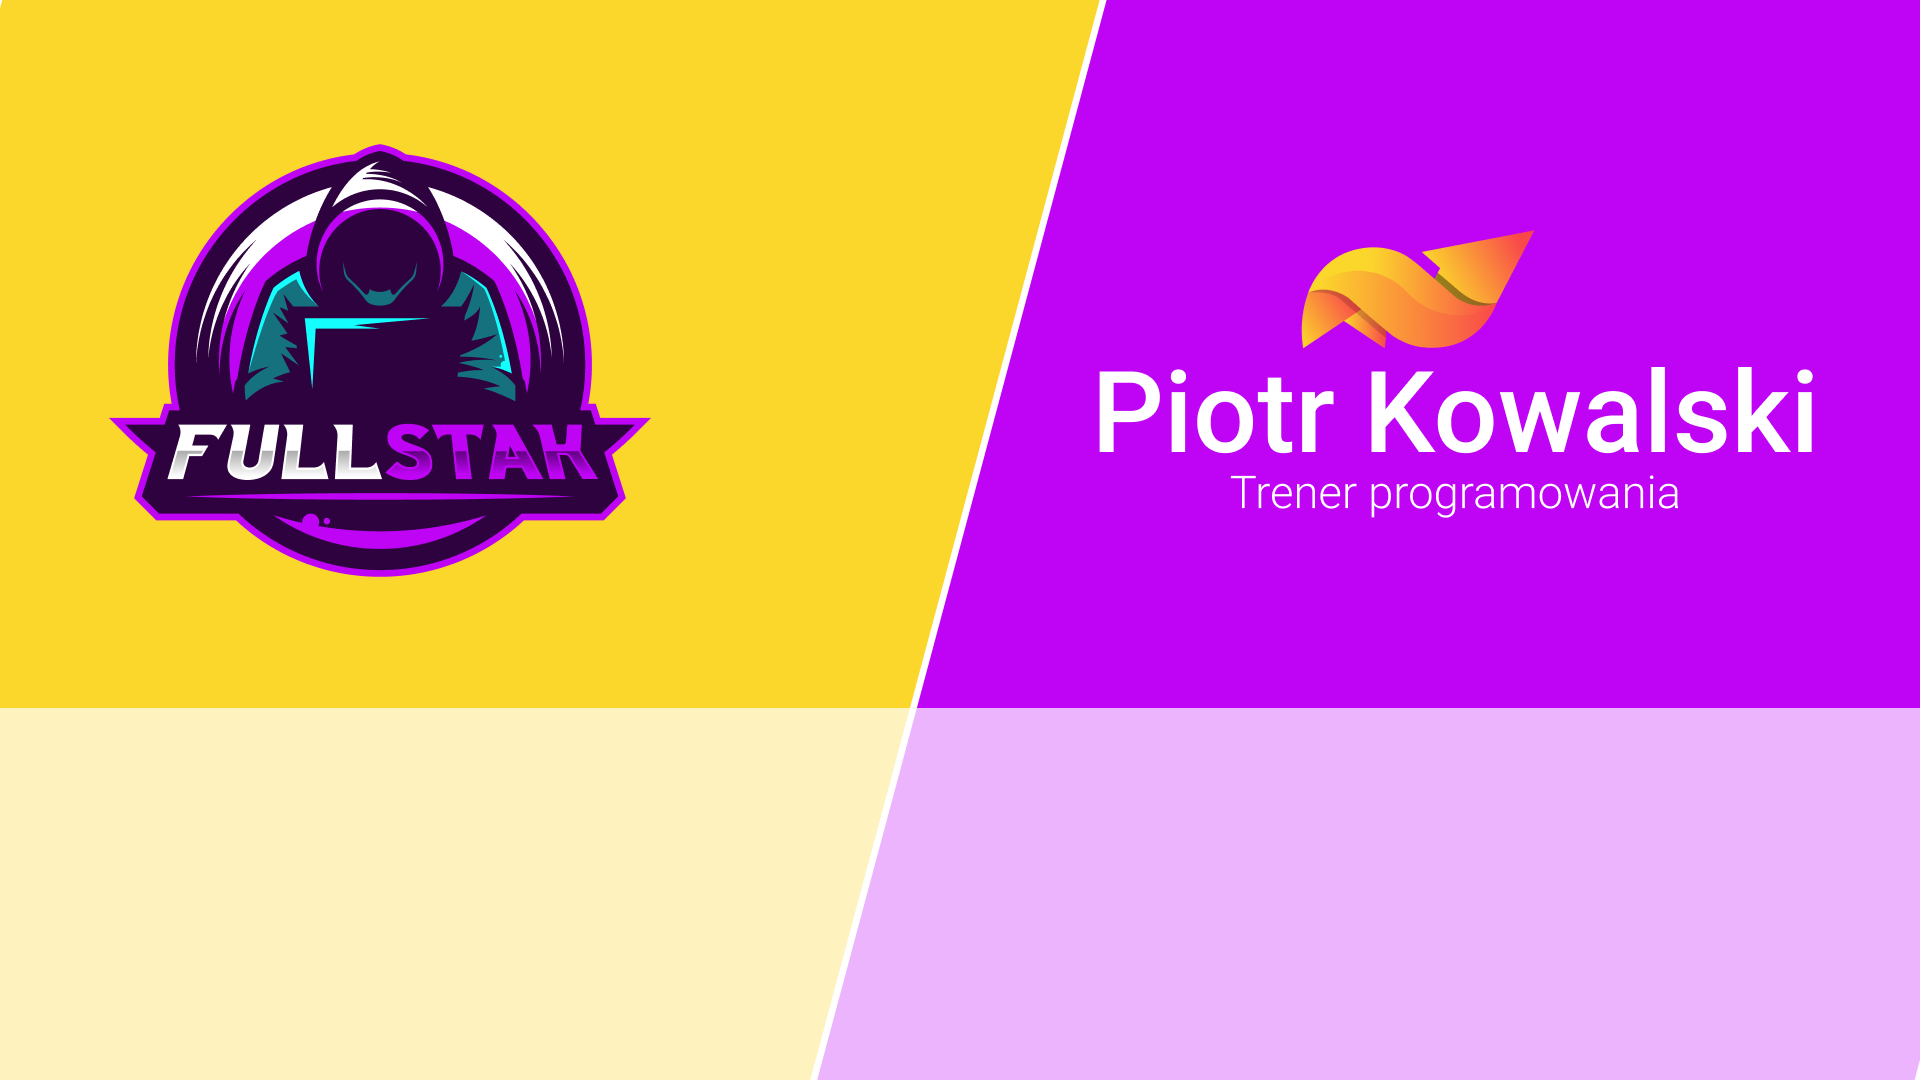
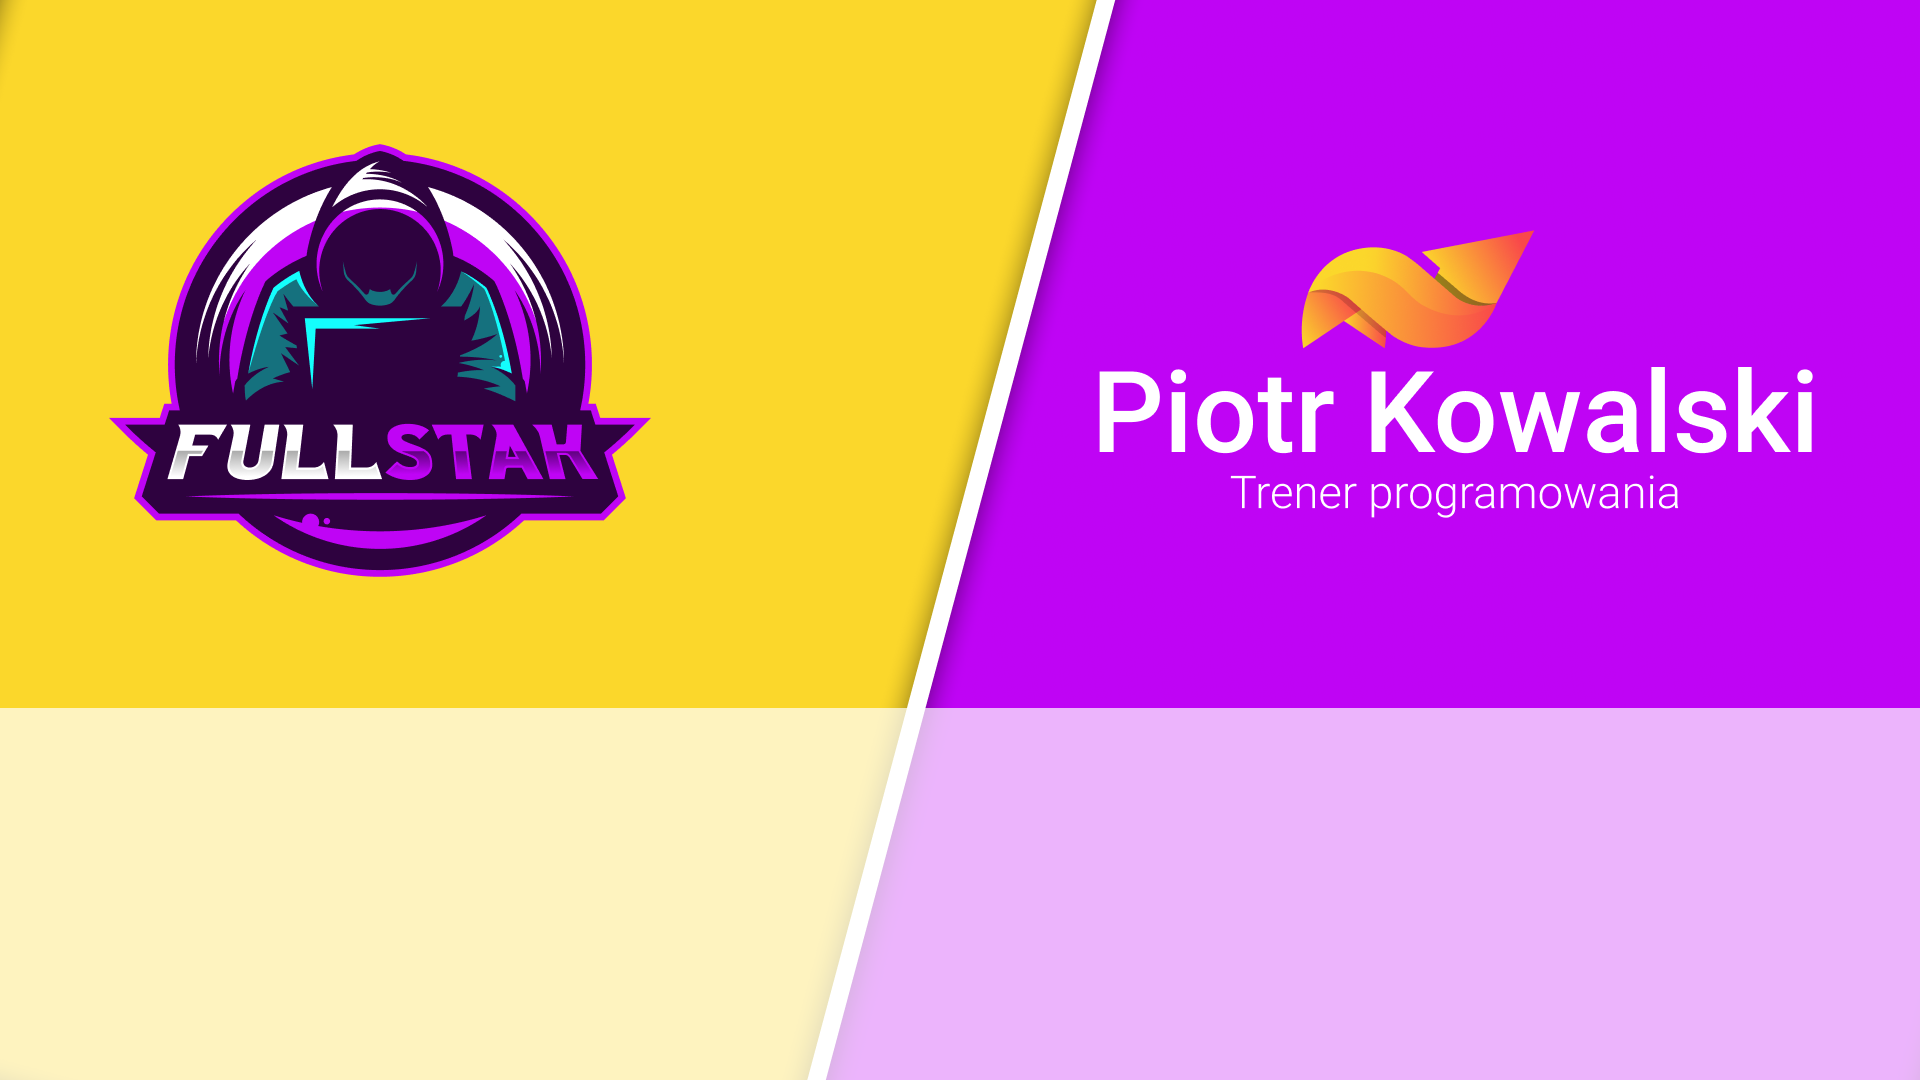
Update backgrounds

diff --git a/styles/themes/webowe-pogawedki/main.css b/styles/themes/webowe-pogawedki/main.css
@@ -4,7 +4,11 @@
 }
 
 .remark-slide-content {
-    background-image: url('../../../images/general/Plain.png');
+    background-image: url('../../../images/general/Plain-Horizontal.png');
+}
+
+.remark-slide-content.vertical {
+    background-image: url('../../../images/general/Plain-Vertical.png');
 }
 
 .remark-slide-content img {
